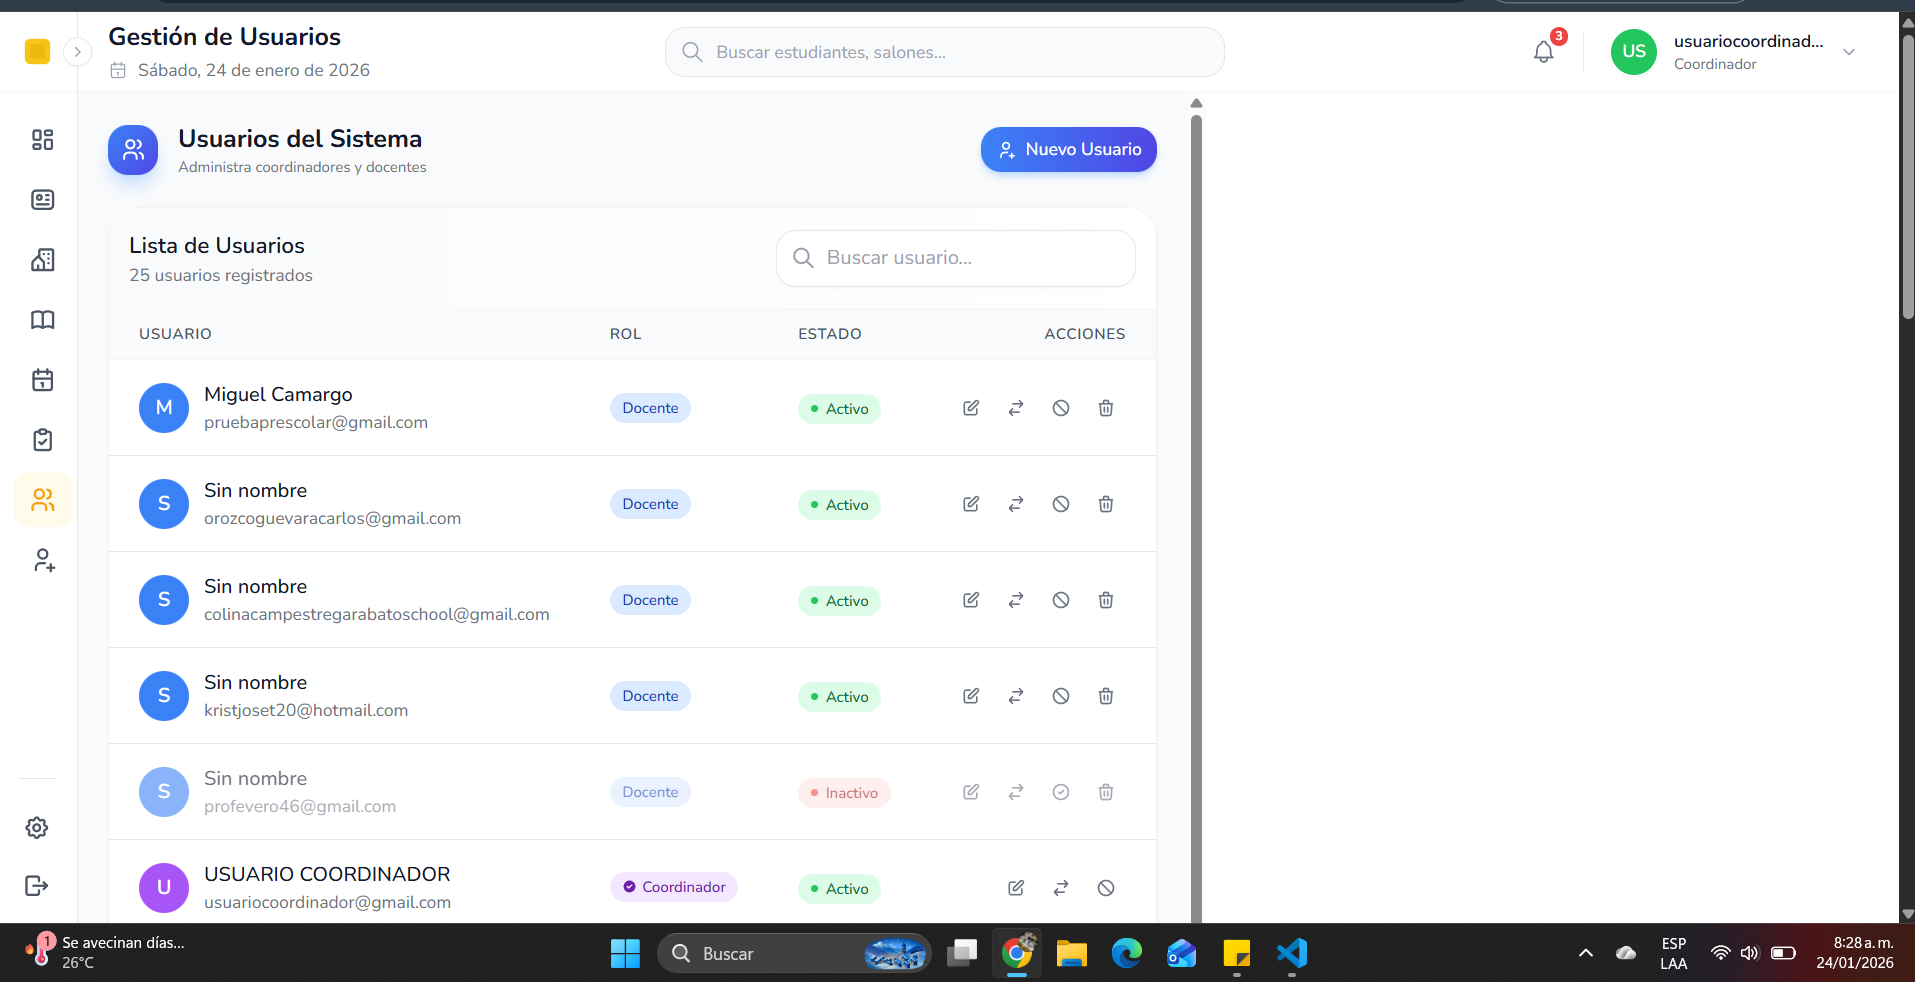
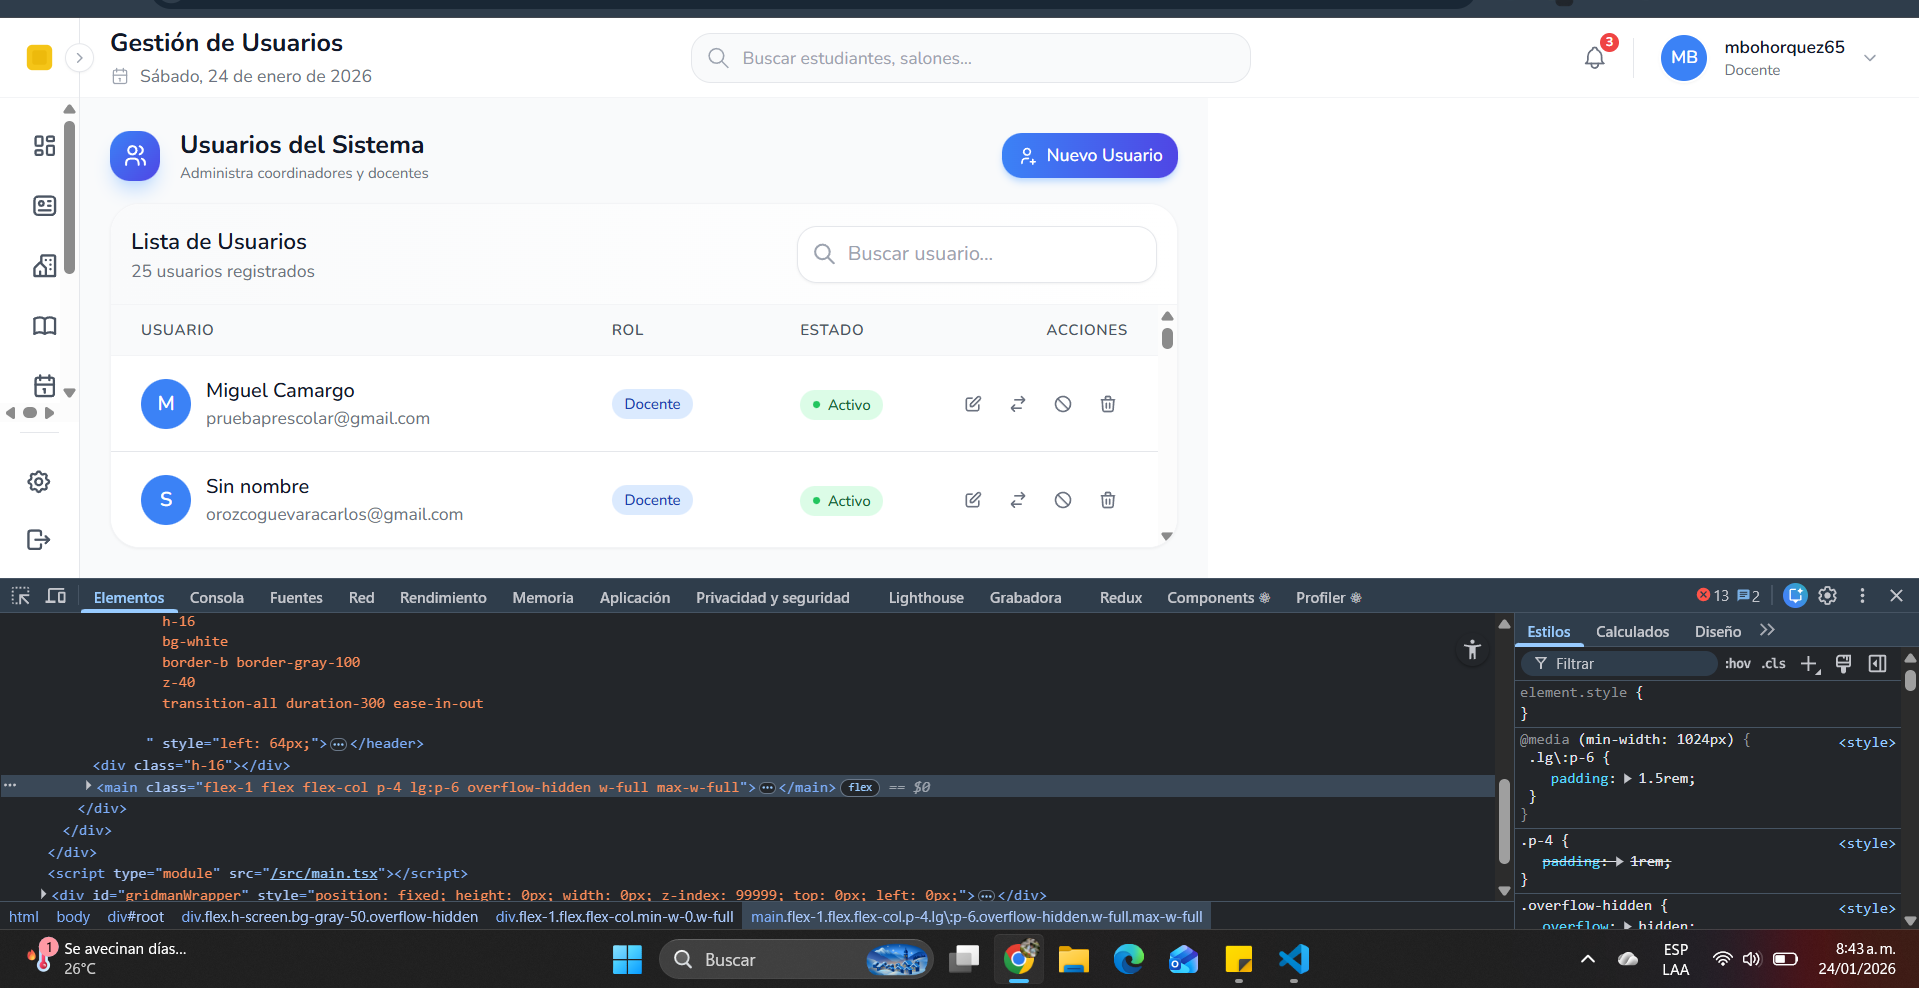
fix autenticacion

diff --git a/src/presentation/components/userList/UserTable.tsx b/src/presentation/components/userList/UserTable.tsx
@@ -150,25 +150,53 @@ const UserTable = ({ currentUserId }: UserTableProps) => {
 
   if (loading) {
     return (
-      <div className="bg-white rounded-2xl shadow-sm border border-gray-100 p-6 h-full flex flex-col">
-        <div className="animate-pulse space-y-4 flex-1">
-          <div className="flex justify-between items-center">
+      <div className="bg-white rounded-2xl shadow-sm border border-gray-100 flex-1 h-full flex flex-col overflow-hidden">
+        {/* Header skeleton */}
+        <div className="p-4 border-b border-gray-100 bg-gradient-to-r from-gray-50 to-white">
+          <div className="flex flex-col sm:flex-row sm:items-center sm:justify-between gap-4">
             <div className="space-y-2">
-              <div className="h-5 bg-gray-200 rounded-lg w-40"></div>
-              <div className="h-3 bg-gray-100 rounded w-24"></div>
+              <div className="h-5 bg-gray-200 rounded-lg w-36 animate-pulse"></div>
+              <div className="h-3 bg-gray-100 rounded w-28 animate-pulse"></div>
             </div>
-            <div className="h-10 bg-gray-100 rounded-xl w-72"></div>
+            <div className="h-10 bg-gray-100 rounded-xl w-72 animate-pulse"></div>
           </div>
-          <div className="h-12 bg-gray-100 rounded-xl w-full mt-6"></div>
-          {[1, 2, 3, 4, 5].map((i) => (
-            <div key={i} className="h-16 bg-gray-50 rounded-xl w-full flex items-center px-6 gap-4">
-              <div className="w-10 h-10 bg-gray-200 rounded-full"></div>
-              <div className="flex-1 space-y-2">
-                <div className="h-4 bg-gray-200 rounded w-1/3"></div>
-                <div className="h-3 bg-gray-100 rounded w-1/4"></div>
+        </div>
+
+        {/* Table skeleton */}
+        <div className="flex-1 overflow-hidden">
+          {/* Table header */}
+          <div className="bg-gray-50 px-6 py-3 border-b border-gray-100 grid grid-cols-12 gap-4">
+            <div className="col-span-5 h-3 bg-gray-200 rounded w-16 animate-pulse"></div>
+            <div className="col-span-2 h-3 bg-gray-200 rounded w-10 animate-pulse"></div>
+            <div className="col-span-2 h-3 bg-gray-200 rounded w-12 animate-pulse"></div>
+            <div className="col-span-3 h-3 bg-gray-200 rounded w-16 animate-pulse ml-auto"></div>
+          </div>
+
+          {/* Table rows */}
+          {[1, 2, 3, 4, 5, 6].map((i) => (
+            <div key={i} className="px-6 py-4 border-b border-gray-50 grid grid-cols-12 gap-4 items-center">
+              {/* Usuario */}
+              <div className="col-span-5 flex items-center gap-3">
+                <div className="w-10 h-10 bg-gray-200 rounded-full animate-pulse"></div>
+                <div className="space-y-2 flex-1">
+                  <div className="h-4 bg-gray-200 rounded w-32 animate-pulse"></div>
+                  <div className="h-3 bg-gray-100 rounded w-40 animate-pulse"></div>
+                </div>
               </div>
-              <div className="h-6 bg-gray-100 rounded-full w-20"></div>
-              <div className="h-6 bg-gray-100 rounded-full w-16"></div>
+              {/* Rol */}
+              <div className="col-span-2">
+                <div className="h-6 bg-gray-100 rounded-full w-20 animate-pulse"></div>
+              </div>
+              {/* Estado */}
+              <div className="col-span-2">
+                <div className="h-6 bg-gray-100 rounded-full w-16 animate-pulse"></div>
+              </div>
+              {/* Acciones */}
+              <div className="col-span-3 flex justify-end gap-2">
+                <div className="w-8 h-8 bg-gray-100 rounded-lg animate-pulse"></div>
+                <div className="w-8 h-8 bg-gray-100 rounded-lg animate-pulse"></div>
+                <div className="w-8 h-8 bg-gray-100 rounded-lg animate-pulse"></div>
+              </div>
             </div>
           ))}
         </div>
@@ -178,7 +206,7 @@ const UserTable = ({ currentUserId }: UserTableProps) => {
 
   if (error) {
     return (
-      <div className="bg-white rounded-2xl shadow-sm border border-gray-100 h-full flex items-center justify-center p-6">
+      <div className="bg-white rounded-2xl shadow-sm border border-gray-100 flex-1 h-full flex items-center justify-center p-6">
         <div className="text-center max-w-sm">
           <div className="w-16 h-16 bg-red-100 rounded-full flex items-center justify-center mx-auto mb-4">
             <svg className="w-8 h-8 text-red-500" fill="none" stroke="currentColor" viewBox="0 0 24 24">
@@ -199,7 +227,7 @@ const UserTable = ({ currentUserId }: UserTableProps) => {
   }
 
   return (
-    <div className="bg-white rounded-2xl shadow-sm border border-gray-100 overflow-hidden flex flex-col h-full">
+    <div className="bg-white rounded-2xl shadow-sm border border-gray-100 overflow-hidden flex flex-col flex-1 h-full">
       {/* Header con búsqueda */}
       <div className="p-4 border-b border-gray-100 bg-gradient-to-r from-gray-50 to-white">
         <div className="flex flex-col sm:flex-row sm:items-center sm:justify-between gap-4">

diff --git a/src/app/guard/AuthGuard.v2.tsx b/src/app/guard/AuthGuard.v2.tsx
@@ -231,54 +231,18 @@ export const AuthGuardV2: React.FC<AuthGuardProps> = ({
 /**
  * LoadingScreen Component
  *
- * Pantalla de carga mostrada mientras se verifica la autenticación.
- * Usa Tailwind CSS y animaciones para mejor UX.
+ * Pantalla de carga minimalista con spinner y fondo blur.
  */
 const LoadingScreen: React.FC = () => {
   return (
-    <div className="min-h-screen flex flex-col items-center justify-center bg-gradient-to-br from-deep-blue-900 via-deep-blue-800 to-medium-blue-700">
-      {/* Logo o icono */}
-      <div className="mb-8 animate-bounce">
-        <div className="w-20 h-20 bg-gold-500 rounded-2xl flex items-center justify-center shadow-2xl">
-          <svg
-            className="w-12 h-12 text-deep-blue-900"
-            fill="none"
-            viewBox="0 0 24 24"
-            stroke="currentColor"
-            aria-hidden="true"
-          >
-            <path
-              strokeLinecap="round"
-              strokeLinejoin="round"
-              strokeWidth={2}
-              d="M12 6.253v13m0-13C10.832 5.477 9.246 5 7.5 5S4.168 5.477 3 6.253v13C4.168 18.477 5.754 18 7.5 18s3.332.477 4.5 1.253m0-13C13.168 5.477 14.754 5 16.5 5c1.747 0 3.332.477 4.5 1.253v13C19.832 18.477 18.247 18 16.5 18c-1.746 0-3.332.477-4.5 1.253"
-            />
-          </svg>
-        </div>
-      </div>
-
-      {/* Texto de carga */}
-      <div className="text-center">
-        <h2 className="text-2xl font-bold text-white mb-2 animate-pulse">
-          Cubbico SIA
-        </h2>
-        <p className="text-off-white-200 text-sm">
-          Verificando autenticación...
-        </p>
-      </div>
-
-      {/* Spinner */}
-      <div className="mt-8">
+    <div className="min-h-screen flex items-center justify-center bg-gray-100/80 backdrop-blur-sm">
+      <div className="flex flex-col items-center gap-4">
+        {/* Spinner */}
         <div className="relative">
-          <div className="w-16 h-16 border-4 border-gold-200 border-t-gold-500 rounded-full animate-spin"></div>
+          <div className="w-12 h-12 border-4 border-gray-200 border-t-blue-600 rounded-full animate-spin"></div>
         </div>
-      </div>
-
-      {/* Decoración inferior */}
-      <div className="absolute bottom-8 text-center">
-        <p className="text-off-white-300 text-xs">
-          Colina Campestre School
-        </p>
+        {/* Texto opcional */}
+        <p className="text-sm text-gray-500 animate-pulse">Cargando...</p>
       </div>
     </div>
   );

diff --git a/src/presentation/pages/private/Dashboard/components/Users.tsx b/src/presentation/pages/private/Dashboard/components/Users.tsx
@@ -61,7 +61,7 @@ function User() {
       <SidebarV2 />
 
       {/* Contenido principal */}
-      <div className="flex-1 flex flex-col min-w-0 w-full">
+      <div className="flex-1 flex flex-col min-w-0">
         {/* Header */}
         <HeaderV2
           title="Gestión de Usuarios"
@@ -70,10 +70,10 @@ function User() {
         />
 
         {/* Spacer para el header fixed */}
-        <div className="h-16" />
+        <div className="h-16 flex-shrink-0" />
 
         {/* Body */}
-        <main className="flex-1 flex flex-col p-4 lg:p-6 overflow-hidden w-full max-w-full">
+        <main className="flex-1 flex flex-col p-4 lg:p-6 min-h-0">
           {/* Header de la página */}
           <div className="flex items-center justify-between mb-4 flex-shrink-0">
             <div className="flex items-center gap-4">
@@ -107,7 +107,7 @@ function User() {
           </div>
 
           {/* Table - flex-1 para ocupar todo el espacio restante */}
-          <div className="flex-1 min-h-0 h-full">
+          <div className="flex-1 min-h-0 flex flex-col">
             <UserTable currentUserId={currentUser?.uid} />
           </div>
         </main>

diff --git a/src/presentation/pages/private/Dashboard/components/Home.tsx b/src/presentation/pages/private/Dashboard/components/Home.tsx
@@ -121,12 +121,12 @@ function Home() {
   } = useStatistics({ autoLoad: true });
 
   return (
-    <div className="flex min-h-screen bg-gray-50">
+    <div className="flex h-screen bg-gray-50 overflow-hidden">
       {/* Sidebar */}
       <SidebarV2 />
 
       {/* Contenido principal - Ocupa todo el espacio disponible */}
-      <div className="flex-1 flex flex-col min-w-0 w-full">
+      <div className="flex-1 flex flex-col min-w-0">
         {/* Header */}
         <HeaderV2
           title="Dashboard"
@@ -136,10 +136,10 @@ function Home() {
         />
 
         {/* Spacer para el header fixed */}
-        <div className="h-16" />
+        <div className="h-16 flex-shrink-0" />
 
         {/* Body - Dashboard con gráficos - Ocupa todo el espacio */}
-        <main className="flex-1 p-4 lg:p-6 overflow-auto w-full max-w-full">
+        <main className="flex-1 p-4 lg:p-6 overflow-auto min-h-0">
           {/* Header del Dashboard - Compacto y alineado */}
           <div className="flex items-center justify-between mb-6">
             <div className="flex items-center gap-4">

diff --git a/src/index.css b/src/index.css
@@ -8,7 +8,6 @@
 #root{
   --background-sidebar-color: #fdfdfd;
   --btn-hover-primary: #6880a8;
-  display: flex;
 }
 
 body {

diff --git a/AUTH.md b/AUTH.md
@@ -419,3 +419,8 @@
 | 2026-01-24 | Fix | user.service: Agregada función getUserByUid para obtener perfil completo. |
 | 2026-01-24 | UI/UX | UserTable: Modales mejorados con headers coloreados, animaciones, mejor feedback. |
 | 2026-01-24 | UI/UX | UserTable: Layout flex para ocupar espacio, loading skeleton mejorado. |
+| 2026-01-24 | Layout | Users.tsx y Home.tsx: Corregido layout flex para ocupar 100% del viewport. |
+| 2026-01-24 | Layout | Contenedor raíz: h-screen overflow-hidden. Eliminado w-full/max-w-full redundantes. |
+| 2026-01-24 | Layout | UserTable: Agregado flex-1 a todos los estados (normal, loading, error). |
+| 2026-01-24 | UI/UX | UserTable skeleton: Rediseñado con grid que replica estructura real de la tabla. |
+| 2026-01-24 | UI/UX | AuthGuard LoadingScreen: Simplificado a spinner minimalista con fondo blur. |
